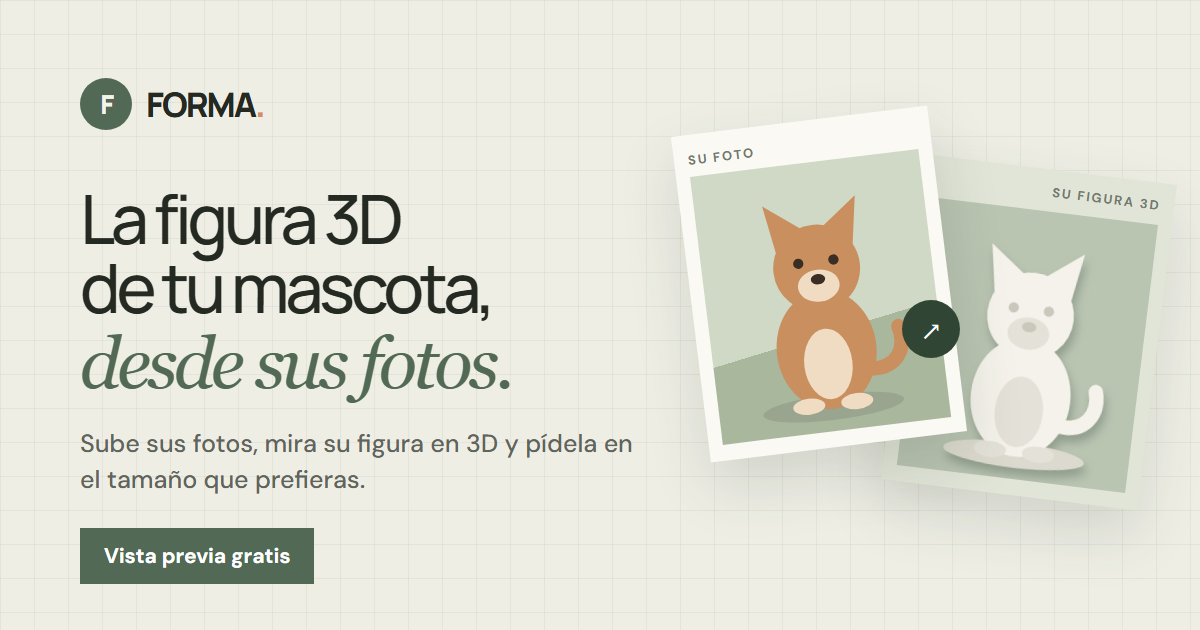
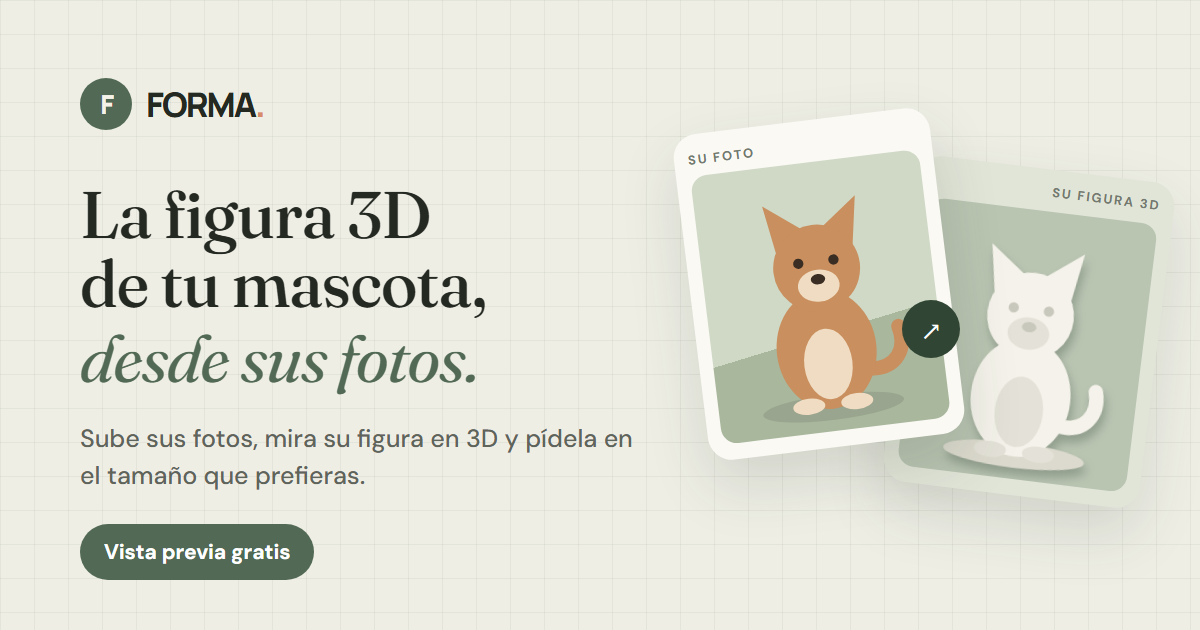
Rediseño con estilo de taller cálido y paleta verde
Nueva hoja tema.css: títulos en Fraunces, botones en píldora, tarjetas
redondeadas y una mancha suave en la portada. El modo oscuro pasa de
morado a la misma paleta verde. La imagen para compartir usa el nuevo
estilo.

diff --git a/studio.css b/studio.css
@@ -1,4 +1,4 @@
 .studio-page{min-height:100vh}.studio-hero{padding:35px 10% 34px;background:#eeeee5}.back-link{display:inline-block;font-size:10px;color:#767b70;margin-bottom:24px}.studio-hero h1{font-size:clamp(40px,4.6vw,60px);margin:12px 0 11px}.studio-hero>p{font-size:11px;color:#6f746a;max-width:480px;line-height:1.8}.studio-workspace{display:grid;grid-template-columns:minmax(330px,.85fr) minmax(420px,1.15fr);gap:20px;padding:27px 8% 49px;background:var(--paper);align-items:start}.studio-form,.result-panel{background:var(--white);border:1px solid var(--line);padding:23px}.studio-form-heading{display:flex;gap:11px;align-items:flex-start;margin-bottom:18px}.form-count{font:700 10px var(--display);color:var(--green);padding-top:3px}.studio-form-heading h2,.result-heading h2{font:700 14px var(--display);margin:0 0 3px;letter-spacing:-.03em}.studio-form-heading p{font-size:9px;color:#81867b;margin:0}.upload-zone{height:154px;border:1px dashed #c4c8bc;background:#f8f8f2;display:flex;flex-direction:column;align-items:center;justify-content:center;position:relative;cursor:pointer;transition:.2s}.upload-zone:hover,.upload-zone.dragover{border-color:var(--green);background:#eff1e9}.upload-zone input{position:absolute;inset:0;width:100%;height:100%;opacity:0;cursor:pointer}.upload-symbol{width:30px;height:30px;border-radius:50%;background:#e6eade;color:var(--green);display:grid;place-items:center;font-size:17px;margin-bottom:7px}.upload-zone strong{font-size:10px}.upload-zone small{font-size:9px;color:#7d8278}.upload-zone u{text-underline-offset:2px;color:var(--green)}.upload-limit{position:absolute;bottom:9px;font-size:7px;color:#969a90;letter-spacing:.05em}.file-list{display:grid;grid-template-columns:repeat(5,minmax(0,1fr));gap:7px;margin:9px 0 4px}.file-thumb{position:relative;aspect-ratio:1;border:1px solid var(--line);background:#eeeee8;overflow:hidden}.file-thumb img{width:100%;height:100%;object-fit:cover;display:block}.file-thumb button{position:absolute;top:3px;right:3px;width:19px;height:19px;border:0;border-radius:50%;background:#262330d9;color:white;cursor:pointer;font-size:12px;line-height:1}.file-thumb select{position:absolute;bottom:3px;left:3px;width:calc(100% - 6px);height:21px;border:1px solid #ffffff82;background:#211f27e8;color:white;font-size:7px}.field-block{margin-top:17px}.field-block>label{display:block;font-size:9px;font-weight:700;margin-bottom:7px}.field-block>label span{float:right;font-size:7px;letter-spacing:.09em;color:#989c92;font-weight:500}.field-block textarea,.field-block select{width:100%;border:1px solid var(--line);background:#fcfbf7;color:var(--ink);font:10px var(--body);padding:9px 10px;resize:vertical;outline:none}.field-block textarea:focus,.field-block select:focus{border-color:var(--green)}.field-block textarea::placeholder{color:#a1a49a}.field-block>small{display:block;margin-top:5px;color:#878c81;font-size:8px}.field-block select{height:36px}.consent-row{display:flex;align-items:flex-start;gap:8px;margin-top:16px;color:#656b61;font-size:8px;line-height:1.6}.consent-row input{margin:2px 0 0;accent-color:var(--green);flex:0 0 auto}.generate-model{margin-top:15px;width:100%;border:0;cursor:pointer}.generate-model:disabled{opacity:.42;cursor:not-allowed}.generation-state{min-height:14px;margin-top:8px;font-size:9px;color:#a85f54}.generation-state.success{color:var(--green)}.generation-progress{margin:8px 0}.progress-track{height:4px;background:#e8e8df;overflow:hidden}.progress-track span{display:block;height:100%;width:4%;background:var(--green);transition:width .4s}.progress-label{display:flex;justify-content:space-between;color:#81867b;font-size:8px;margin-top:5px}.privacy-message{display:flex;gap:6px;color:#898d83;font-size:8px;line-height:1.6;margin:8px 0 0}.privacy-message span{color:var(--green);font-size:11px}.result-panel{padding:19px}.result-heading{display:flex;justify-content:space-between;align-items:center;margin:0 0 12px}.result-heading .eyebrow{font-size:7px}.result-heading h2{font-size:17px;margin-top:3px}.model-state{display:flex;align-items:center;gap:6px;color:#8f9489;font-size:7px;letter-spacing:.1em}.model-state i{width:6px;height:6px;background:#b1b4aa;border-radius:50%}.model-state.ready{color:var(--green)}.model-state.ready i{background:var(--green);box-shadow:0 0 0 3px #526a5518}.model-stage{height:437px;position:relative;display:grid;place-items:center;overflow:hidden;background:#eeeee8;background-image:linear-gradient(#526a550d 1px,transparent 1px),linear-gradient(90deg,#526a550d 1px,transparent 1px);background-size:23px 23px}.model-placeholder{display:flex;flex-direction:column;align-items:center;color:#82877d}.placeholder-orbit{width:142px;height:142px;border-radius:50%;border:1px solid #c9cabe;display:grid;place-items:center;position:relative;margin-bottom:14px}.placeholder-orbit:before,.placeholder-orbit:after{content:'';position:absolute;border:1px solid #d3d4ca;border-radius:50%;inset:16px -19px;transform:rotate(-28deg)}.placeholder-orbit:after{transform:rotate(28deg)}.placeholder-orbit span{display:grid;place-items:center;background:#dfe3d8;color:#788673;border-radius:50%;width:53px;height:53px;font:600 24px var(--display)}.model-placeholder strong{font:600 11px var(--display);color:#62695e}.model-placeholder p{font-size:8px;margin:4px 0}.model-stage model-viewer{width:100%;height:100%;display:none;--poster-color:transparent;--progress-bar-color:#796592}.model-stage.ready model-viewer{display:block}.model-stage.ready .model-placeholder{display:none}.viewer-hint{position:absolute;left:10px;bottom:10px;background:#25212ecb;color:white;padding:6px 9px;font-size:8px;pointer-events:none}.result-note{border-top:1px solid var(--line);padding-top:11px;margin:13px 0 0;color:#83887e;font-size:8px;line-height:1.7}.studio-footnote{display:grid;grid-template-columns:.45fr 1.55fr;gap:26px;padding:20px 10%;border-top:1px solid var(--line);background:var(--paper)}.studio-footnote span{font-size:8px;letter-spacing:.1em;font-weight:700;color:var(--green)}.studio-footnote p{max-width:670px;color:#767c71;font-size:9px;line-height:1.8;margin:0}.studio-page .footer{margin:0}.studio-page .menu-toggle{display:none}
-.theme-dark .studio-hero{background:#1d1b23}.theme-dark .back-link,.theme-dark .studio-hero>p{color:#c2bdc9}.theme-dark .studio-workspace{background:#17161c}.theme-dark .studio-form,.theme-dark .result-panel{background:#211f27;border-color:#3c3844}.theme-dark .studio-form-heading p,.theme-dark .field-block>small{color:#b4aebb}.theme-dark .upload-zone{background:#1a1820;border-color:#514b59;color:#f1eef5}.theme-dark .upload-zone:hover,.theme-dark .upload-zone.dragover{background:#292431;border-color:#ae95cf}.theme-dark .upload-zone small{color:#beb7c5}.theme-dark .upload-limit{color:#aaa4b0}.theme-dark .file-thumb{background:#292630;border-color:#514b59}.theme-dark .field-block textarea,.theme-dark .field-block select{background:#1a1820;border-color:#514b59;color:#f1eef5}.theme-dark .field-block textarea::placeholder,.theme-dark .field-block>small,.theme-dark .field-block>label span{color:#aaa4b0}.theme-dark .consent-row{color:#c4bdcd}.theme-dark .progress-track{background:#403b48}.theme-dark .progress-label,.theme-dark .privacy-message{color:#b4aebb}.theme-dark .model-state{color:#aaa4b2}.theme-dark .model-stage{background-color:#282630;background-image:linear-gradient(#b5a5c514 1px,transparent 1px),linear-gradient(90deg,#b5a5c514 1px,transparent 1px)}.theme-dark .placeholder-orbit{border-color:#514b59}.theme-dark .placeholder-orbit:before,.theme-dark .placeholder-orbit:after{border-color:#514b59}.theme-dark .placeholder-orbit span{background:#383142;color:#d3c1ea}.theme-dark .model-placeholder{color:#aaa4b0}.theme-dark .model-placeholder strong{color:#e6e0ea}.theme-dark .result-note,.theme-dark .studio-footnote p{color:#b4aebb}.theme-dark .studio-footnote{background:#17161c;border-color:#3c3844}.theme-dark .studio-footnote span{color:#d2c3ee}
+.theme-dark .studio-hero{background:#1c221d}.theme-dark .back-link,.theme-dark .studio-hero>p{color:#bec8c0}.theme-dark .studio-workspace{background:#171b18}.theme-dark .studio-form,.theme-dark .result-panel{background:#202621;border-color:#39433b}.theme-dark .studio-form-heading p,.theme-dark .field-block>small{color:#afbab1}.theme-dark .upload-zone{background:#191f1a;border-color:#4c584f;color:#eff4f0}.theme-dark .upload-zone:hover,.theme-dark .upload-zone.dragover{background:#253027;border-color:#9bc9a4}.theme-dark .upload-zone small{color:#b8c4bb}.theme-dark .upload-limit{color:#a5afa7}.theme-dark .file-thumb{background:#272f29;border-color:#4c584f}.theme-dark .field-block textarea,.theme-dark .field-block select{background:#191f1a;border-color:#4c584f;color:#eff4f0}.theme-dark .field-block textarea::placeholder,.theme-dark .field-block>small,.theme-dark .field-block>label span{color:#a5afa7}.theme-dark .consent-row{color:#bfcbc1}.theme-dark .progress-track{background:#3c473e}.theme-dark .progress-label,.theme-dark .privacy-message{color:#afbab1}.theme-dark .model-state{color:#a5b1a8}.theme-dark .model-stage{background-color:#272f29;background-image:linear-gradient(#a8c2ad14 1px,transparent 1px),linear-gradient(90deg,#a8c2ad14 1px,transparent 1px)}.theme-dark .placeholder-orbit{border-color:#4c584f}.theme-dark .placeholder-orbit:before,.theme-dark .placeholder-orbit:after{border-color:#4c584f}.theme-dark .placeholder-orbit span{background:#334035;color:#c8e3ce}.theme-dark .model-placeholder{color:#a5afa7}.theme-dark .model-placeholder strong{color:#e1e9e3}.theme-dark .result-note,.theme-dark .studio-footnote p{color:#afbab1}.theme-dark .studio-footnote{background:#171b18;border-color:#39433b}.theme-dark .studio-footnote span{color:#cce5d1}
 @media(max-width:900px){.studio-workspace{padding-left:5%;padding-right:5%;grid-template-columns:minmax(300px,.9fr) minmax(350px,1.1fr);gap:12px}.studio-form{padding:19px}.model-stage{height:390px}.studio-hero{padding-left:7%;padding-right:7%}}
 @media(max-width:680px){.studio-page .menu-toggle{display:block}.studio-page .nav{display:none;position:absolute;top:64px;left:0;right:0;padding:17px 6% 22px;background:var(--paper);box-shadow:0 12px 18px #25271e12;align-items:stretch;flex-direction:column;gap:16px}.studio-page .nav.open{display:flex}.studio-page .nav-cta{width:max-content}.studio-hero{padding:29px 6% 24px}.studio-hero h1{font-size:40px}.studio-hero>p{font-size:10px}.studio-workspace{grid-template-columns:1fr;padding:13px 4% 30px}.studio-form,.result-panel{padding:17px}.model-stage{height:330px}.studio-footnote{grid-template-columns:1fr;gap:6px;padding:17px 6%}.result-heading h2{font-size:15px}.upload-zone{height:139px}}

diff --git a/styles.css b/styles.css
@@ -3,21 +3,21 @@
 @media(max-width:650px){.topline{height:27px;padding:0 5%;font-size:7px}.header{height:64px;padding:0 5%}.menu-toggle{display:block;border:0;background:none;color:var(--ink);font-size:22px}.nav{display:none;position:absolute;top:64px;left:0;right:0;padding:17px 6% 22px;background:var(--paper);box-shadow:0 12px 18px #25271e12;align-items:stretch;flex-direction:column;gap:16px}.nav.open{display:flex}.nav-cta{width:max-content}.hero{display:flex;flex-direction:column;align-items:stretch;padding:49px 7% 64px}.hero-copy{max-width:none}.hero h1{font-size:59px}.hero-copy>p{font-size:12px}.hero-meta{margin-top:32px;gap:7px;font-size:6px}.hero-meta i{width:10px}.hero-visual{height:350px;margin-top:20px;transform:none;overflow:hidden}.image-tile,.relief-tile{width:156px;height:220px}.image-tile{left:6%;top:19%}.relief-tile{right:4%;top:27%}.tile-scene,.relief-scene{inset:34px 10px 26px}.transform-arrow{left:46%;top:46%;width:35px;height:35px}.orbit{width:295px;height:295px}.orbit-b{width:340px;height:200px}.visual-sticker{right:0;bottom:7%;width:58px;height:58px}.visual-caption{left:12%;font-size:10px}.ticker{height:44px}.ticker>div{min-width:max-content;gap:17px;font-size:7px}.section{padding:68px 7%}.section-intro{display:block;margin-bottom:28px}.section-intro h2,.how-heading h2,.faq-intro h2{font-size:43px}.section-intro>p{margin-top:15px}.fine-print{font-size:8px}.how-section{padding:66px 7%;display:block}.how-heading{margin-bottom:28px}.how-steps{grid-template-columns:1fr}.how-steps article,.how-steps article+article{padding:13px 0;border-left:0;border-top:1px solid #cfd2c7}.step-line{height:55px}.how-steps p{max-width:310px}.offer-grid{grid-template-columns:1fr;gap:10px}.offer{min-height:210px}.price-section{padding:68px 7%}.faq-section{grid-template-columns:1fr;gap:27px;padding:68px 7%}.footer{padding:21px 6% 37px;gap:12px;flex-wrap:wrap}.footer>span{font-size:8px}.footer>a:nth-of-type(2){margin-left:0;width:100%}.footer small{left:6%;bottom:10px}}
 
 .theme-toggle{display:inline-flex;align-items:center;gap:7px;border:1px solid var(--line);background:transparent;color:var(--ink);padding:9px 11px;font-size:10px;font-weight:600;cursor:pointer;transition:background .2s,border-color .2s}.theme-toggle:hover{background:#eae8df;border-color:#c8c6bb}.theme-toggle>span:first-child{font-size:14px;color:var(--green)}
-body.theme-dark{--paper:#17161c;--white:#211f27;--ink:#f1eef5;--muted:#b4aebb;--green:#a18bc5;--deep:#25212e;--lime:#d2c3ee;--line:#3c3844;--orange:#b294d4;background:var(--paper);color:var(--ink)}
-.theme-dark .topline{background:#211e29;color:#ded9e7}.theme-dark .topline a{color:#c9bedb}.theme-dark .topline b,.theme-dark .wordmark-dot{color:#c29de7}
-.theme-dark .header{background:#17161c;border-color:#ffffff12}.theme-dark .brand-symbol{background:#796592;color:#fff}.theme-dark .theme-toggle{border-color:#514b59;color:#eee9f4}.theme-dark .theme-toggle:hover{background:#302b38;border-color:#8872a4}
-.theme-dark .nav-cta,.theme-dark .button-dark{background:#74618f;color:#fff}.theme-dark .nav-cta:hover,.theme-dark .button-dark:hover{background:#8972a8}.theme-dark .nav>a:not(.nav-cta):hover,.theme-dark .quiet-link:hover{color:#c7b3e3}
-.theme-dark .hero{background:#1d1b23}.theme-dark .hero-copy>p{color:#c2bdc9}.theme-dark .hero-meta{color:#aaa4b2}.theme-dark .hero-meta i{background:#514b59}
-.theme-dark .hero-visual .visual-grid{background-image:linear-gradient(#b5a5c514 1px,transparent 1px),linear-gradient(90deg,#b5a5c514 1px,transparent 1px)}.theme-dark .orbit{border-color:#b9a8cb30}
-.theme-dark .image-tile{background:#26232d;box-shadow:0 20px 55px #08070b80}.theme-dark .relief-tile{background:#34303e;box-shadow:0 28px 58px #08070b99}.theme-dark .tile-label,.theme-dark .tile-corner{color:#c0b9c8}.theme-dark .tile-scene{background:#524a5d}.theme-dark .relief-scene{background:#4c4655;box-shadow:inset 0 7px 13px #14121a80}.theme-dark .visual-caption{color:#c0bac7}.theme-dark .visual-sticker{background:#b9a5d7;color:#292332}
-.theme-dark .ticker{background:#292431;color:#eee9f4}.theme-dark .ticker b{color:#c7a8e7}
-.theme-dark .section-intro>p{color:#bbb5c2}.theme-dark .fine-print{color:#aaa4b0}.theme-dark .fine-print{border-color:var(--line)}
-.theme-dark .how-section{background:#211e27}.theme-dark .how-heading>p,.theme-dark .how-steps p{color:#b6afbd}.theme-dark .how-steps,.theme-dark .how-steps article+article{border-color:#484250}.theme-dark .step-top{color:#bdb6c5}.theme-dark .line-upload{color:#a494ba}.theme-dark .line-adjust{color:#b69bcb}.theme-dark .line-download{color:#c3abd9}
+body.theme-dark{--paper:#171b18;--white:#202621;--ink:#eff4f0;--muted:#afbab1;--green:#91bf9a;--deep:#222d24;--lime:#cce5d1;--line:#39433b;--orange:#9ccca6;background:var(--paper);color:var(--ink)}
+.theme-dark .topline{background:#1f2821;color:#dae6dd}.theme-dark .topline a{color:#c1d8c6}.theme-dark .topline b,.theme-dark .wordmark-dot{color:#aed6b6}
+.theme-dark .header{background:#171b18;border-color:#ffffff12}.theme-dark .brand-symbol{background:#6a8e71;color:#fff}.theme-dark .theme-toggle{border-color:#4c584f;color:#eaf3ec}.theme-dark .theme-toggle:hover{background:#2c372e;border-color:#779f7f}
+.theme-dark .nav-cta,.theme-dark .button-dark{background:#668a6d;color:#fff}.theme-dark .nav-cta:hover,.theme-dark .button-dark:hover{background:#77a380}.theme-dark .nav>a:not(.nav-cta):hover,.theme-dark .quiet-link:hover{color:#badcc1}
+.theme-dark .hero{background:#1c221d}.theme-dark .hero-copy>p{color:#bec8c0}.theme-dark .hero-meta{color:#a5b1a8}.theme-dark .hero-meta i{background:#4c584f}
+.theme-dark .hero-visual .visual-grid{background-image:linear-gradient(#a8c2ad14 1px,transparent 1px),linear-gradient(90deg,#a8c2ad14 1px,transparent 1px)}.theme-dark .orbit{border-color:#acc8b130}
+.theme-dark .image-tile{background:#242c26;box-shadow:0 20px 55px #070b0880}.theme-dark .relief-tile{background:#313d34;box-shadow:0 28px 58px #070b0899}.theme-dark .tile-label,.theme-dark .tile-corner{color:#bbc7bd}.theme-dark .tile-scene{background:#4c5b4f}.theme-dark .relief-scene{background:#48544a;box-shadow:inset 0 7px 13px #13191480}.theme-dark .visual-caption{color:#bbc6bd}.theme-dark .visual-sticker{background:#aad2b2;color:#253127}
+.theme-dark .ticker{background:#253027;color:#eaf3ec}.theme-dark .ticker b{color:#b6d9bd}
+.theme-dark .section-intro>p{color:#b6c1b8}.theme-dark .fine-print{color:#a5afa7}.theme-dark .fine-print{border-color:var(--line)}
+.theme-dark .how-section{background:#1f2620}.theme-dark .how-heading>p,.theme-dark .how-steps p{color:#b0bcb3}.theme-dark .how-steps,.theme-dark .how-steps article+article{border-color:#434f46}.theme-dark .step-top{color:#b8c3ba}.theme-dark .line-upload{color:#98b69e}.theme-dark .line-adjust{color:#a0c6a7}.theme-dark .line-download{color:#b0d4b7}
 
-.theme-dark .price-section{background:#211e27}.theme-dark .offer{background:#292630;color:#f1eef5}.theme-dark .offer-kicker,.theme-dark .offer p{color:#bbb4c2}.theme-dark .offer-icon{color:#b7a4d0}.theme-dark .offer>a{border-color:#47414f;color:#c6b3df}
-.theme-dark .faq-section{background:#25212e;color:#f2eef7}.theme-dark .faq-intro .eyebrow{color:#d2c3ee}.theme-dark .faq-intro h2 em{color:#c5a3df}.theme-dark .faq-intro>p,.theme-dark .faq-list details p{color:#c4bdcd}.theme-dark .button-light{background:#e8e0ef;color:#30283a}.theme-dark .button-light:hover{background:#fff}.theme-dark .faq-list details{border-color:#51485c}.theme-dark .faq-list summary span{color:#d4c2ee}
-.theme-dark .footer{background:#211e27}.theme-dark .footer>span,.theme-dark .footer small{color:#b5aebb}.theme-dark .footer .brand-symbol{background:#796592}
-.theme-dark .nav{background:#17161c}.theme-dark .nav-cta{background:#74618f}
+.theme-dark .price-section{background:#1f2620}.theme-dark .offer{background:#272f29;color:#eff4f0}.theme-dark .offer-kicker,.theme-dark .offer p{color:#b5c1b8}.theme-dark .offer-icon{color:#a8ccaf}.theme-dark .offer>a{border-color:#424e45;color:#b8dabf}
+.theme-dark .faq-section{background:#222d24;color:#eff6f0}.theme-dark .faq-intro .eyebrow{color:#cce5d1}.theme-dark .faq-intro h2 em{color:#add5b5}.theme-dark .faq-intro>p,.theme-dark .faq-list details p{color:#bfcbc1}.theme-dark .button-light{background:#e2eee4;color:#2a382d}.theme-dark .button-light:hover{background:#fff}.theme-dark .faq-list details{border-color:#4a5a4d}.theme-dark .faq-list summary span{color:#cce4d1}
+.theme-dark .footer{background:#1f2620}.theme-dark .footer>span,.theme-dark .footer small{color:#afbab1}.theme-dark .footer .brand-symbol{background:#6a8e71}
+.theme-dark .nav{background:#171b18}.theme-dark .nav-cta{background:#668a6d}
 
 @supports (view-transition-name: root){
   ::view-transition-group(root){animation-duration:1s;animation-timing-function:ease-in-out}
@@ -31,6 +31,6 @@ body.theme-dark{--paper:#17161c;--white:#211f27;--ink:#f1eef5;--muted:#b4aebb;--
 }
 
 /* Contraste entre pasos y opciones en modo oscuro */
-.theme-dark .price-section{background:#292530}
-.theme-dark .price-section .offer{background:#211e27}
+.theme-dark .price-section{background:#262f28}
+.theme-dark .price-section .offer{background:#1f2620}
 

diff --git a/tema.css b/tema.css
@@ -1,0 +1,91 @@
+/* Tema "taller cálido" con la paleta verde: títulos en serif suave, formas redondeadas
+   y botones en píldora. Se carga después de las hojas de cada página y antes de movil.css. */
+:root {
+  --heading: 'Fraunces', Georgia, serif;
+  --serif: 'Fraunces', Georgia, serif;
+  --radius-card: 20px;
+  --radius-inner: 14px;
+  --radius-field: 12px;
+  --pill: 999px;
+  --soft: #e3e8db;
+  --soft-strong: #d6ddcb;
+}
+body.theme-dark { --orange: #e0a47f; --soft: #242d26; --soft-strong: #2c372e; }
+
+/* Tipografía */
+h1, h2 { font-family: var(--heading); font-weight: 500; letter-spacing: -.012em; line-height: 1.05; font-variation-settings: 'opsz' 44; }
+h1 em, h2 em { font-family: var(--heading); font-style: italic; font-weight: 400; letter-spacing: -.01em; font-variation-settings: 'opsz' 44; }
+.how-steps h3, .offer h3, .idea-title h3 { font-family: var(--heading); font-weight: 500; font-size: 19px; letter-spacing: -.01em; }
+.size-card .size-measure { font-family: var(--heading); font-weight: 500; letter-spacing: -.02em; }
+.faq-list summary { font-family: var(--heading); font-weight: 500; font-size: 17px; letter-spacing: -.01em; }
+.studio-form-heading h2, .result-heading h2, .order-panel h2, .model-dialog-head h2 { font-family: var(--heading); font-weight: 500; letter-spacing: -.015em; }
+
+/* Botones en píldora */
+.button, .nav-cta, .theme-toggle, .order-submit, .generate-model, .send-edit, .download-actions .button { border-radius: var(--pill); }
+.button { padding: 15px 22px; }
+.finish-toggle button, .choice span, .admin-filters button, .order-actions button, .model-dialog-actions button, .photo-step { border-radius: var(--pill); }
+.visual-sticker, .transform-arrow { box-shadow: 0 6px 18px #30453438; }
+
+/* Tarjetas y superficies redondeadas */
+.offer, .size-card, .studio-form, .result-panel, .order-panel, .edit-controls, .chat-panel,
+.admin-login, .admin-stat, .order-card, .admin-empty, .model-dialog, .studio-footnote { border-radius: var(--radius-card); }
+.order-card { overflow: hidden; }
+.shot-guide li, .size-option, .upload-zone, .model-stage, .model-dialog-stage, .tip-grid .offer { border-radius: var(--radius-inner); }
+.model-stage, .model-dialog-stage { overflow: hidden; }
+.file-thumb, .photo-thumb, .photo-dialog-stage img { border-radius: var(--radius-field); overflow: hidden; }
+.field-block input, .field-block textarea, .field-block select, .order-panel textarea, .admin-login input,
+.admin-search input, .order-actions select, .file-thumb select { border-radius: var(--radius-field); }
+.admin-search input { border-radius: var(--pill); padding: 0 16px; }
+.progress-track { border-radius: var(--pill); }
+.progress-track span { border-radius: var(--pill); }
+.viewer-hint { border-radius: var(--pill); padding: 7px 12px; }
+.studio-tabs { border-bottom: 0; gap: 8px; }
+.studio-tab { border-radius: var(--radius-inner); border-bottom: 0; background: transparent; }
+.studio-tab.active { background: var(--soft); }
+
+/* Portada: ilustración sobre una mancha suave en vez de la grilla y las órbitas */
+.hero { background: var(--paper); }
+.hero .visual-grid, .hero .orbit { display: none; }
+.hero-visual::before { content: ''; position: absolute; inset: 4% 6% 6%; border-radius: 46% 54% 41% 59% / 55% 44% 56% 45%; background: var(--soft); }
+.image-tile, .relief-tile { border-radius: var(--radius-card); }
+.tile-scene, .relief-scene { border-radius: var(--radius-inner); }
+.relief-tile { background: var(--soft-strong); }
+.ticker { border-radius: 0; }
+
+/* Íconos de las tarjetas y números de los pasos dentro de círculos */
+.offer-icon { width: 46px; height: 46px; border-radius: 50%; display: grid; place-items: center; background: var(--soft); font-size: 20px; }
+.offer-featured .offer-icon { background: #ffffff1f; }
+.step-top span:first-child { display: inline-grid; place-items: center; width: 30px; height: 30px; border-radius: 50%; background: var(--soft); color: var(--green); font: 700 12px var(--display); letter-spacing: 0; }
+.how-steps { border-top: 0; gap: 14px; }
+.how-steps article, .how-steps article + article { background: var(--white); border: 1px solid var(--line); border-radius: var(--radius-card); padding: 20px; }
+.how-section { background: var(--soft); }
+
+/* Secciones con más aire y bordes suaves */
+.price-section, .theme-dark .price-section { background: var(--soft); }
+.size-card { border: 1px solid var(--line); }
+.size-card.featured { border-color: transparent; }
+.faq-section { border-radius: 32px 32px 0 0; }
+.footer { background: var(--deep); color: #e6ebe2; }
+.footer > span, .footer small { color: #b9c4b5; }
+.footer .brand-symbol { background: var(--lime); color: var(--deep); }
+.theme-dark .footer { background: #111512; }
+
+/* Modo oscuro: la mancha y las superficies suaves siguen la paleta verde */
+.theme-dark .hero, .theme-dark .studio-hero { background: var(--paper); }
+.theme-dark .how-section { background: var(--soft); }
+.theme-dark .how-steps article, .theme-dark .how-steps article + article { background: var(--white); border-color: var(--line); }
+.theme-dark .offer-icon, .theme-dark .step-top span:first-child { background: var(--soft-strong); color: var(--green); }
+
+@media (max-width: 700px) {
+  .how-steps article, .how-steps article + article { padding: 16px; border-top: 1px solid var(--line); }
+  .faq-section { border-radius: 24px 24px 0 0; }
+}
+
+/* Tarjetas de consejos y de tallas sobre fondo claro */
+.offer { background: var(--white); border: 1px solid var(--line); }
+.offer-featured { border-color: transparent; }
+.size-card:not(.featured) { background: var(--white); }
+.hero h1 { font-size: clamp(46px, 5.2vw, 72px); }
+@media (max-width: 650px) { .hero h1 { font-size: 44px; } }
+.theme-dark .transform-arrow { background: var(--green); color: #14201a; }
+.theme-dark .faq-section { background: #1c241e; }

diff --git a/studio-tabs.css b/studio-tabs.css
@@ -1,4 +1,4 @@
-.studio-tabs{width:min(1600px,92vw);margin:25px auto 0;display:grid;grid-template-columns:1fr 1fr;border-bottom:1px solid var(--line)}.studio-tab{position:relative;display:flex;align-items:center;gap:13px;padding:17px 19px;border:0;border-bottom:2px solid transparent;background:transparent;color:#858a80;text-align:left;cursor:pointer}.studio-tab>span:first-child{font:700 12px var(--display);color:#9ca193}.studio-tab>span:nth-child(2){display:flex;flex-direction:column;gap:2px}.studio-tab strong{font:700 14px var(--display);color:#5c6259}.studio-tab small{font-size:11px;color:#858a80}.studio-tab>b{margin-left:auto;font-size:16px;color:#a1a697;font-weight:400}.studio-tab.active{border-bottom-color:var(--green)}.studio-tab.active>span:first-child,.studio-tab.active>b{color:var(--green)}.studio-tab.active strong{color:var(--ink)}.studio-tab.active small{color:#697166}.theme-dark .studio-tab{color:#aaa4b2}.theme-dark .studio-tab>span:first-child,.theme-dark .studio-tab small{color:#aaa4b2}.theme-dark .studio-tab strong{color:#ded9e5}.theme-dark .studio-tab.active strong{color:#fff}.theme-dark .studio-tab.active small{color:#c4bdcd}.theme-dark .studio-tabs{border-color:var(--line)}
+.studio-tabs{width:min(1600px,92vw);margin:25px auto 0;display:grid;grid-template-columns:1fr 1fr;border-bottom:1px solid var(--line)}.studio-tab{position:relative;display:flex;align-items:center;gap:13px;padding:17px 19px;border:0;border-bottom:2px solid transparent;background:transparent;color:#858a80;text-align:left;cursor:pointer}.studio-tab>span:first-child{font:700 12px var(--display);color:#9ca193}.studio-tab>span:nth-child(2){display:flex;flex-direction:column;gap:2px}.studio-tab strong{font:700 14px var(--display);color:#5c6259}.studio-tab small{font-size:11px;color:#858a80}.studio-tab>b{margin-left:auto;font-size:16px;color:#a1a697;font-weight:400}.studio-tab.active{border-bottom-color:var(--green)}.studio-tab.active>span:first-child,.studio-tab.active>b{color:var(--green)}.studio-tab.active strong{color:var(--ink)}.studio-tab.active small{color:#697166}.theme-dark .studio-tab{color:#a5b1a8}.theme-dark .studio-tab>span:first-child,.theme-dark .studio-tab small{color:#a5b1a8}.theme-dark .studio-tab strong{color:#dae4dc}.theme-dark .studio-tab.active strong{color:#fff}.theme-dark .studio-tab.active small{color:#bfcbc1}.theme-dark .studio-tabs{border-color:var(--line)}
 .studio-workspace{display:block;padding:22px 6% 45px;background:var(--paper)}.studio-tab-panel[hidden]{display:none!important}.prepare-panel{width:min(1240px,100%);margin:0 auto}.prepare-panel .studio-form{padding:30px 38px;display:grid;grid-template-columns:1fr 1fr;column-gap:26px;align-items:start}.prepare-panel .studio-form-heading,.prepare-panel .upload-zone,.prepare-panel .file-list,.prepare-panel .generation-state,.prepare-panel .generation-progress,.prepare-panel .privacy-message{grid-column:1/-1}.prepare-panel .studio-form-heading{margin-bottom:19px}.prepare-panel .field-block{margin-top:0;width:100%}.prepare-panel .field-block textarea{min-height:106px}.prepare-panel .consent-row,.prepare-panel .generate-model{grid-column:1/-1}.prepare-panel .upload-zone{height:185px}.prepare-panel .file-list{grid-template-columns:repeat(5,minmax(0,1fr));max-width:470px}.view-panel{width:min(1600px,100%);margin:0 auto}.view-layout{display:grid;grid-template-columns:minmax(0,1fr) 365px;gap:17px;align-items:start}.view-layout .result-panel{padding:23px}.result-heading{margin-bottom:15px}.view-layout .model-stage{height:min(62vh,610px);min-height:430px}.view-layout .model-placeholder{padding:25px;text-align:center}.view-layout .viewer-hint{left:14px;bottom:14px}.view-layout .result-note{font-size:11px}.edit-sidebar{display:flex;flex-direction:column;gap:13px}.model-state{white-space:nowrap}
 @media(max-width:920px){.view-layout{grid-template-columns:minmax(0,1fr) 320px}.view-layout .model-stage{height:500px;min-height:360px}.view-layout .result-panel{padding:18px}.studio-tabs{width:90%}}
 @media(max-width:700px){.studio-tabs{width:92%;margin-top:16px}.studio-tab{gap:8px;padding:13px 8px}.studio-tab strong{font-size:12px}.studio-tab small{font-size:9px}.studio-tab>b{font-size:13px}.studio-workspace{padding:14px 4% 28px}.prepare-panel .studio-form{display:block;padding:21px 17px}.prepare-panel .field-block{margin-top:16px}.prepare-panel .file-list{display:grid;grid-template-columns:repeat(4,minmax(0,1fr))}.prepare-panel .consent-row{margin-top:15px}.view-layout{grid-template-columns:1fr;gap:12px}.view-layout .result-panel{padding:15px}.view-layout .model-stage{height:380px;min-height:300px}.view-layout .result-heading h2{font-size:18px}.edit-sidebar{gap:10px}.studio-page .studio-hero{padding-bottom:20px}}

diff --git a/mascotas.css b/mascotas.css
@@ -8,7 +8,7 @@
 .pet-photo{--pet-fill:#c98f5e;--pet-light:#f0dcc2;--pet-dark:#3a2d24;--pet-base:#00000018}
 .pet-figure{--pet-fill:#f4f2ea;--pet-light:#e4e2d8;--pet-dark:#c9c8bd;--pet-base:#dcdace}
 .pet-figure .pet-art{filter:drop-shadow(3px 6px 4px #3f514440)}
-.theme-dark .pet-photo{background:linear-gradient(170deg,#5d5569 0 62%,#463f51 62%)}
+.theme-dark .pet-photo{background:linear-gradient(170deg,#57675a 0 62%,#414f44 62%)}
 .hero{padding-bottom:72px}
 
 /* Consejos de foto */
@@ -32,12 +32,12 @@
 .price-cta{display:flex;align-items:center;gap:18px;margin-top:26px;flex-wrap:wrap}
 .price-cta>span{font-size:12px;color:var(--muted)}
 #shipping-note:empty{display:none}
-.theme-dark .size-card{background:#211e27;color:#f1eef5}
-.theme-dark .size-card.featured{background:#51445f}
-.theme-dark .size-card .size-name,.theme-dark .size-card p{color:#bbb4c2}
-.theme-dark .size-card.featured .size-name,.theme-dark .size-card.featured p{color:#e0d8e8}
-.theme-dark .size-card .size-price{border-color:#47414f}
-.theme-dark .size-card.featured .size-price{border-color:#80728e}
+.theme-dark .size-card{background:#1f2620;color:#eff4f0}
+.theme-dark .size-card.featured{background:#475c4b}
+.theme-dark .size-card .size-name,.theme-dark .size-card p{color:#b5c1b8}
+.theme-dark .size-card.featured .size-name,.theme-dark .size-card.featured p{color:#dae6dc}
+.theme-dark .size-card .size-price{border-color:#424e45}
+.theme-dark .size-card.featured .size-price{border-color:#758b79}
 
 /* Estudio: formulario de la foto */
 .studio-hero .back-link{display:block}
@@ -47,7 +47,7 @@
 .field-block input[type=text],.field-block input[type=email]{width:100%;height:38px;border:1px solid var(--line);background:#fcfbf7;color:var(--ink);font:13px var(--body);padding:0 10px;outline:none}
 .field-block input[type=text]:focus,.field-block input[type=email]:focus{border-color:var(--green)}
 .field-block input::placeholder{color:#a1a49a}
-.theme-dark .field-block input[type=text],.theme-dark .field-block input[type=email]{background:#1a1820;border-color:#514b59;color:#f1eef5}
+.theme-dark .field-block input[type=text],.theme-dark .field-block input[type=email]{background:#191f1a;border-color:#4c584f;color:#eff4f0}
 .file-list.single .file-thumb select{display:none}
 .more-angles{grid-column:1/-1;font-size:11px;color:var(--muted);margin:2px 0 0}
 
@@ -56,7 +56,7 @@
 .finish-toggle button{border:1px solid var(--line);background:transparent;color:var(--muted);font:600 12px var(--body);padding:10px 8px;cursor:pointer}
 .finish-toggle button[aria-pressed=true]{border-color:var(--green);color:var(--green);background:#526a5510}
 .finish-toggle button:disabled{opacity:.45;cursor:not-allowed}
-.theme-dark .finish-toggle button[aria-pressed=true]{background:#a18bc51a}
+.theme-dark .finish-toggle button[aria-pressed=true]{background:#91bf9a1a}
 .order-panel{background:var(--white);border:1px solid var(--line);padding:19px}
 .order-panel h2{font:700 17px var(--display);letter-spacing:-.03em;margin:0 0 3px}
 .order-panel>p{font-size:12px;color:var(--muted);margin:0 0 14px;line-height:1.6}
@@ -68,7 +68,7 @@
 .size-option small{font-size:11px;color:var(--muted)}
 .size-option:has(input:checked){border-color:var(--green);background:#526a5510}
 .size-option:has(input:focus-visible){outline:2px solid var(--green);outline-offset:2px}
-.theme-dark .size-option:has(input:checked){background:#a18bc51a}
+.theme-dark .size-option:has(input:checked){background:#91bf9a1a}
 .order-panel .field-block{margin-top:12px}
 .order-panel .field-block>label{font-size:12px}
 .order-panel textarea{min-height:60px;font-size:13px}
@@ -102,8 +102,8 @@
 .choice span{display:block;border:1px solid var(--line);padding:9px 13px;font-size:13px;background:#fcfbf7}
 .choice input:checked+span{border-color:var(--green);color:var(--green);background:#526a5510;font-weight:600}
 .choice input:focus-visible+span{outline:2px solid var(--green);outline-offset:2px}
-.theme-dark .choice span{background:#1a1820;border-color:#514b59}
-.theme-dark .choice input:checked+span{background:#a18bc51a;border-color:#a18bc5;color:#d2c3ee}
+.theme-dark .choice span{background:#191f1a;border-color:#4c584f}
+.theme-dark .choice input:checked+span{background:#91bf9a1a;border-color:#91bf9a;color:#cce5d1}
 .tail-describe{margin-top:10px}
 .tail-describe label{display:block;font-size:12px;font-weight:700;margin-bottom:6px}
 .tail-describe small{display:block;margin-top:5px;font-size:11px;color:var(--muted)}

diff --git a/admin.css b/admin.css
@@ -18,7 +18,7 @@
 .admin-heading .button{border:0;cursor:pointer;margin-bottom:12px}
 /* Colores por estado, distintos en modo claro y oscuro */
 :root{--st-nueva:#c9764f;--st-contactada:#4f7cae;--st-pagada:#3f8150;--st-enviada:#7a8374;--st-cancelada:#b3b3aa}
-body.theme-dark{--st-nueva:#e6a57c;--st-contactada:#86aee0;--st-pagada:#7cc58c;--st-enviada:#a8a2b4;--st-cancelada:#6a6572}
+body.theme-dark{--st-nueva:#e6a57c;--st-contactada:#86aee0;--st-pagada:#7cc58c;--st-enviada:#a4b2a7;--st-cancelada:#667168}
 [data-status=nueva]{--st:var(--st-nueva)}[data-status=contactada]{--st:var(--st-contactada)}[data-status=pagada]{--st:var(--st-pagada)}[data-status=enviada]{--st:var(--st-enviada)}[data-status=cancelada]{--st:var(--st-cancelada)}
 .visually-hidden{position:absolute;width:1px;height:1px;overflow:hidden;clip:rect(0 0 0 0);white-space:nowrap}
 
@@ -64,7 +64,7 @@ body.theme-dark{--st-nueva:#e6a57c;--st-contactada:#86aee0;--st-pagada:#7cc58c;-
 .model-dialog-head{display:flex;justify-content:space-between;align-items:start;gap:14px;margin-bottom:14px}
 .model-dialog-head h2{font:700 20px var(--display);letter-spacing:-.03em;margin:4px 0 0}
 .model-dialog-stage{position:relative;height:min(60vh,540px);min-height:280px;background:#d6d8cf;background-image:linear-gradient(#526a550d 1px,transparent 1px),linear-gradient(90deg,#526a550d 1px,transparent 1px);background-size:23px 23px}
-.theme-dark .model-dialog-stage{background-color:#282630;background-image:linear-gradient(#b5a5c514 1px,transparent 1px),linear-gradient(90deg,#b5a5c514 1px,transparent 1px)}
+.theme-dark .model-dialog-stage{background-color:#272f29;background-image:linear-gradient(#a8c2ad14 1px,transparent 1px),linear-gradient(90deg,#a8c2ad14 1px,transparent 1px)}
 .model-dialog-stage model-viewer{width:100%;height:100%;--poster-color:transparent}
 .model-dialog-status{position:absolute;inset:auto 0 12px 0;text-align:center;font-size:13px;color:var(--muted);margin:0;pointer-events:none}
 .model-dialog-status.error{color:#a85f54}

diff --git a/crear.html b/crear.html
@@ -22,12 +22,13 @@
   <meta name="twitter:card" content="summary_large_image">
   <link rel="preconnect" href="https://fonts.googleapis.com">
   <link rel="preconnect" href="https://fonts.gstatic.com" crossorigin>
-  <link href="https://fonts.googleapis.com/css2?family=DM+Sans:wght@400;500;600;700&family=Manrope:wght@400;500;600;700;800&display=swap" rel="stylesheet">
+  <link href="https://fonts.googleapis.com/css2?family=DM+Sans:wght@400;500;600;700&family=Fraunces:ital,opsz,wght@0,9..144,400;0,9..144,500;1,9..144,400;1,9..144,500&family=Manrope:wght@400;500;600;700;800&display=swap" rel="stylesheet">
   <link rel="stylesheet" href="styles.css">
   <link rel="stylesheet" href="studio.css">
   <link rel="stylesheet" href="type-scale.css">
   <link rel="stylesheet" href="studio-tabs.css">
   <link rel="stylesheet" href="mascotas.css">
+  <link rel="stylesheet" href="tema.css">
   <link rel="stylesheet" href="movil.css">
   <script type="module" src="https://ajax.googleapis.com/ajax/libs/model-viewer/4.4.0/model-viewer.min.js"></script>
 </head>

diff --git a/admin.html b/admin.html
@@ -10,10 +10,11 @@
   <link rel="apple-touch-icon" href="icono-180.png">
   <link rel="preconnect" href="https://fonts.googleapis.com">
   <link rel="preconnect" href="https://fonts.gstatic.com" crossorigin>
-  <link href="https://fonts.googleapis.com/css2?family=DM+Sans:wght@400;500;600;700&family=Manrope:wght@400;500;600;700;800&display=swap" rel="stylesheet">
+  <link href="https://fonts.googleapis.com/css2?family=DM+Sans:wght@400;500;600;700&family=Fraunces:ital,opsz,wght@0,9..144,400;0,9..144,500;1,9..144,400;1,9..144,500&family=Manrope:wght@400;500;600;700;800&display=swap" rel="stylesheet">
   <link rel="stylesheet" href="styles.css">
   <link rel="stylesheet" href="type-scale.css">
   <link rel="stylesheet" href="admin.css">
+  <link rel="stylesheet" href="tema.css">
   <link rel="stylesheet" href="movil.css">
   <script type="module" src="https://ajax.googleapis.com/ajax/libs/model-viewer/4.4.0/model-viewer.min.js"></script>
 </head>

diff --git a/index.html b/index.html
@@ -22,10 +22,11 @@
   <meta name="twitter:card" content="summary_large_image">
   <link rel="preconnect" href="https://fonts.googleapis.com">
   <link rel="preconnect" href="https://fonts.gstatic.com" crossorigin>
-  <link href="https://fonts.googleapis.com/css2?family=DM+Sans:wght@400;500;600;700&family=Manrope:wght@400;500;600;700;800&display=swap" rel="stylesheet">
+  <link href="https://fonts.googleapis.com/css2?family=DM+Sans:wght@400;500;600;700&family=Fraunces:ital,opsz,wght@0,9..144,400;0,9..144,500;1,9..144,400;1,9..144,500&family=Manrope:wght@400;500;600;700;800&display=swap" rel="stylesheet">
   <link rel="stylesheet" href="styles.css">
   <link rel="stylesheet" href="type-scale.css">
   <link rel="stylesheet" href="mascotas.css">
+  <link rel="stylesheet" href="tema.css">
   <link rel="stylesheet" href="movil.css">
 </head>
 <body id="top">

diff --git a/type-scale.css b/type-scale.css
@@ -33,7 +33,7 @@ body{font-size:16px}
 .footer>span{font-size:11px}
 .footer>a:nth-of-type(2){font-size:10px}
 .footer small{font-size:9px}
-.theme-dark .theme-toggle:hover{background:#302b38}
+.theme-dark .theme-toggle:hover{background:#2c372e}
 .studio-page .back-link{font-size:12px}
 .studio-page .studio-hero>p{font-size:14px}
 
